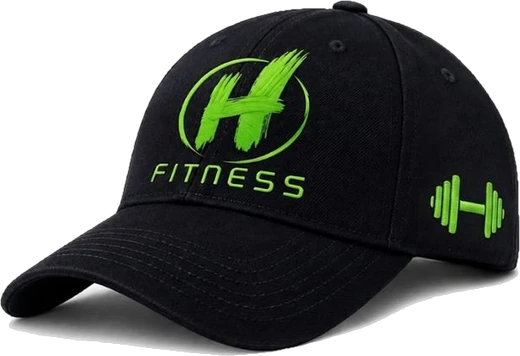
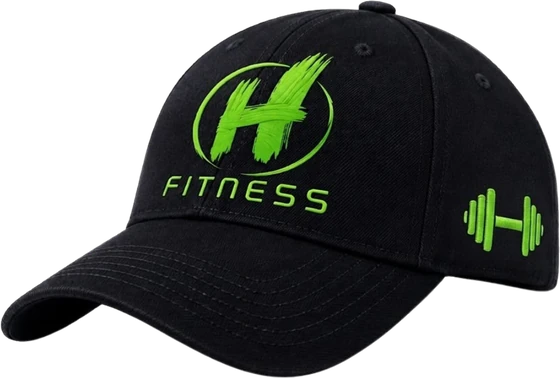
Actualiza los productos de la caja con las fotos nuevas
La caja muestra sellos, gorra trucker, mate de acero, trofeos, vaso
cervecero y mate imperial. Recortes hechos desde las fotos de alta
resolución que pasó el dueño.

Claude-Session: https://claude.ai/code/session_01Y91kop1jZPrLUd921qj9LJ

diff --git a/index.html b/index.html
@@ -965,7 +965,7 @@ section[id],div[id]{scroll-margin-top:84px}
 </script>
 <script>
 (function(){
-  var BOX=[['sellos_auto','Sellos automáticos','A medida'],['vaso_chopp','Vaso cervecero','Por cantidad'],['mates_acero','Mate de acero','$10.500'],['jarro_chopp','Jarro chopp','Por cantidad'],['llavero_foto','Llavero grabado','Por cantidad'],['gorras','Gorra trucker','Por cantidad']];
+  var BOX=[['sellos_auto','Sellos automáticos','A medida'],['gorras','Gorra trucker','Por cantidad'],['mates_acero','Mate de acero','$10.500'],['trofeo','Trofeos','Por cantidad'],['vaso_chopp','Vaso cervecero','Por cantidad'],['mate_imperial','Mate imperial','Por cantidad']];
   var GAL=[['mates_acero','Mate de acero','$10.500'],['mate_copita','Mate copita','$9.400'],['mate_camionero','Mate camionero','$23.900'],['jarro_chopp','Jarro chopp','Por cantidad'],['vaso_evento','Vaso de litro de aluminio','Por cantidad'],['gorras','Gorra trucker con DTF','Por cantidad'],['trofeo','Trofeos','Desde $16.400'],['llavero_acrilico','Llavero de acrílico','$2.900'],['stickers','Stickers','100 desde $9.500'],['sello_manual','Sellos','A medida'],['centro_mesa','Centro de mesa','Por cantidad'],['placa_recuerdo','Placas','Consultá precio'],['corporeo','Carteles con luz','A medida']];
   var track=document.getElementById('xtrack');
   track.innerHTML=GAL.map(function(g){return '<a class="x-card" href="#p-'+g[0]+'"><img src="img/'+g[0]+'.jpg" alt="'+g[1]+'" loading="lazy"><div><b>'+g[1]+'</b><span>'+g[2]+'</span></div></a>'}).join('');
